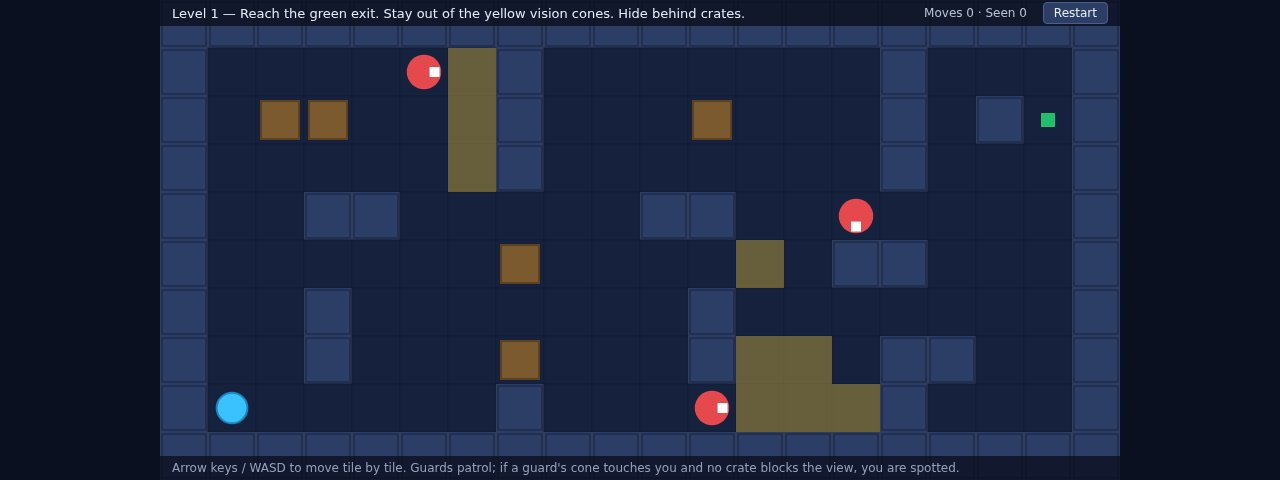
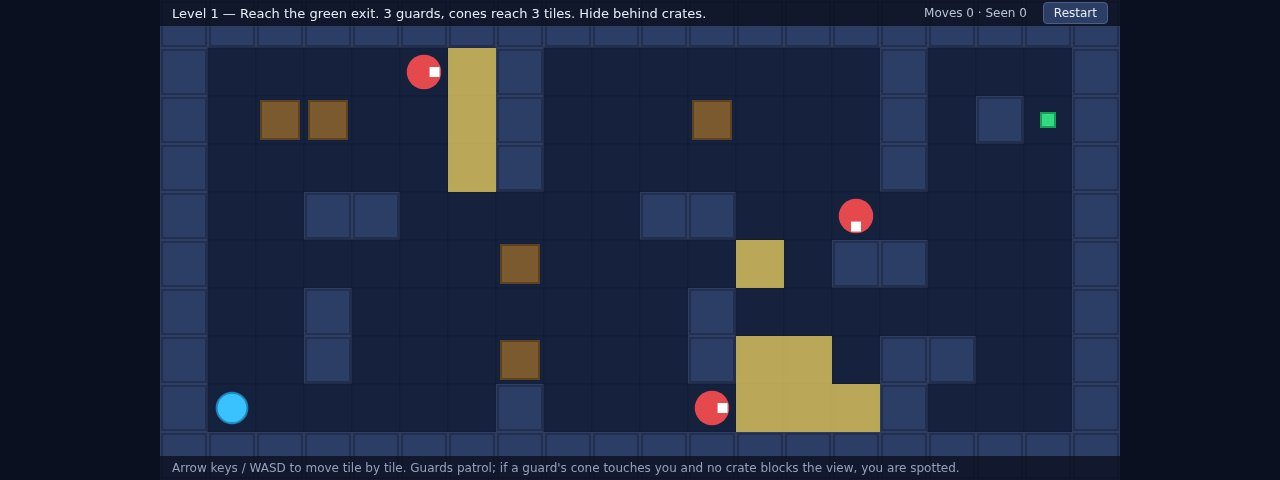
Stealth entry: cone rims, exit pulse, HUD revision

diff --git a/game/index.html b/game/index.html
@@ -29,7 +29,7 @@
 <body>
 <div id="stage">
   <div id="hud">
-    <div id="status">Level 1 — Reach the green exit. Stay out of the yellow vision cones. Hide behind crates.</div>
+    <div id="status">Level 1 — Reach the green exit. 3 guards, cones reach 3 tiles. Hide behind crates.</div>
     <div id="right">
       <div id="counters">Moves 0 &middot; Seen 0</div>
       <button id="restart">Restart</button>
@@ -60,6 +60,7 @@
   var START={x:1,y:8};
   var player={x:START.x,y:START.y};
   var moves=0, seen=0, won=false, noSpot=false;
+  var CONE_RANGE=3, frame=0;
   var guardDefs=[
     {wp:[[5,1],[9,1],[9,3],[5,3]],start:[5,1]},
     {wp:[[14,4],[14,7],[17,7],[17,4]],start:[14,4]},
@@ -145,7 +146,7 @@ if(player.x===18&&player.y===2){win();return;}
       setStatus("Spotted! Back to the start.");
       player.x=START.x; player.y=START.y;
     } else {
-      setStatus("Level 1 — Reach the green exit. Stay out of the yellow vision cones. Hide behind crates.");
+      setStatus(defaultStatus());
     }
     refresh();
   }
@@ -173,18 +174,22 @@ if(player.x===18&&player.y===2){win();return;}
     refresh();
   }
   function setStatus(s){document.getElementById("status").textContent=s;}
+  function defaultStatus(){
+    return "Level 1 — Reach the green exit. "+guards.length+" guards, cones reach "+CONE_RANGE+" tiles. Hide behind crates.";
+  }
   function updateCounters(){document.getElementById("counters").textContent="Moves "+moves+" \u00b7 Seen "+seen;}
   function restart(){
-    player.x=START.x; player.y=START.y; moves=0; seen=0; won=false;
+    player.x=START.x; player.y=START.y; moves=0; seen=0; won=false; frame=0;
     initGuards();
     document.getElementById("winband").style.display="none";
-    setStatus("Level 1 — Reach the green exit. Stay out of the yellow vision cones. Hide behind crates.");
+    setStatus(defaultStatus());
     refresh();
   }
   var cv=document.getElementById("cv");
   var ctx=cv.getContext("2d");
 
   function draw(){
+    frame++;
     ctx.clearRect(0,0,cv.width,cv.height);
     // floor + walls + crates
     for(var r=0;r<ROWS;r++){
@@ -204,7 +209,9 @@ if(player.x===18&&player.y===2){win();return;}
         }
         if(ch==='E'){
           var s=14;
-          ctx.fillStyle="#1fbf6b"; ctx.fillRect(x+(TILE-s)/2,y+(TILE-s)/2,s,s);
+          var bright=(frame&1)?"#33d97f":"#1fbf6b";
+          ctx.fillStyle=bright; ctx.fillRect(x+(TILE-s)/2,y+(TILE-s)/2,s,s);
+          ctx.strokeStyle="#16a05a"; ctx.lineWidth=2; ctx.strokeRect(x+(TILE-s)/2,y+(TILE-s)/2,s,s);
         }
       }
     }
@@ -236,6 +243,24 @@ if(player.x===18&&player.y===2){win();return;}
         if(inCone(g,c,r)){
           ctx.fillStyle="rgba(255,210,60,0.35)";
           ctx.fillRect(c*TILE,r*TILE,TILE,TILE);
+        }
+      }
+    }
+    // brighter rim: cone tiles whose 8-neighbourhood touches a non-cone tile
+    for(var r2=0;r2<ROWS;r2++){
+      for(var c2=0;c2<COLS;c2++){
+        if(!inCone(g,c2,r2))continue;
+        var rim=false;
+        for(var dy=-1;dy<=1&&!rim;dy++){
+          for(var dx=-1;dx<=1;dx++){
+            var ncx=c2+dx, nry=r2+dy;
+            if(ncx===c2&&nry===r2)continue;
+            if(!inCone(g,ncx,nry)){rim=true;break;}
+          }
+        }
+        if(rim){
+          ctx.fillStyle="rgba(255,225,110,0.55)";
+          ctx.fillRect(c2*TILE,r2*TILE,TILE,TILE);
         }
       }
     }
